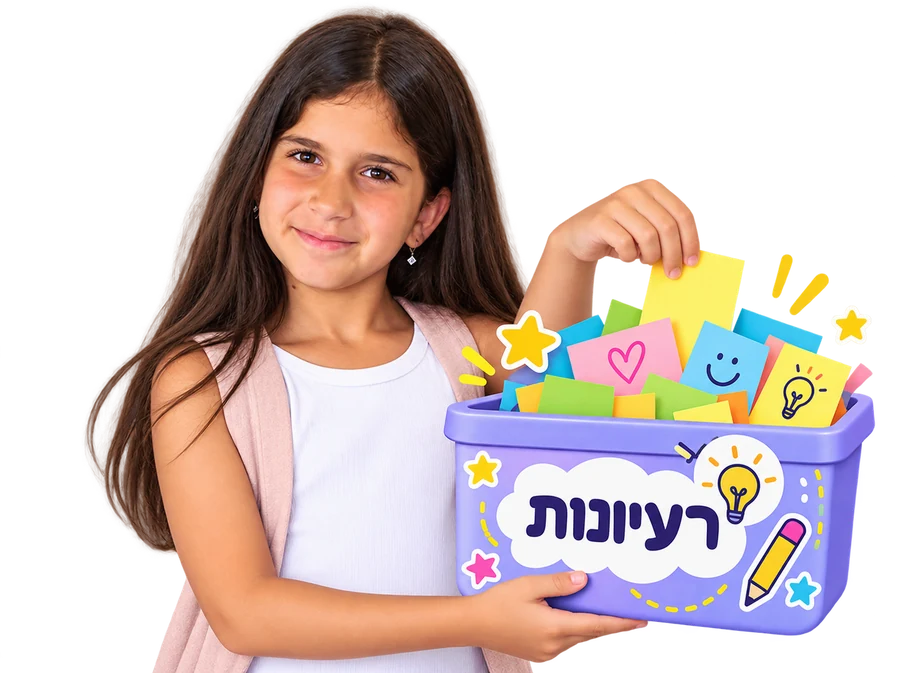
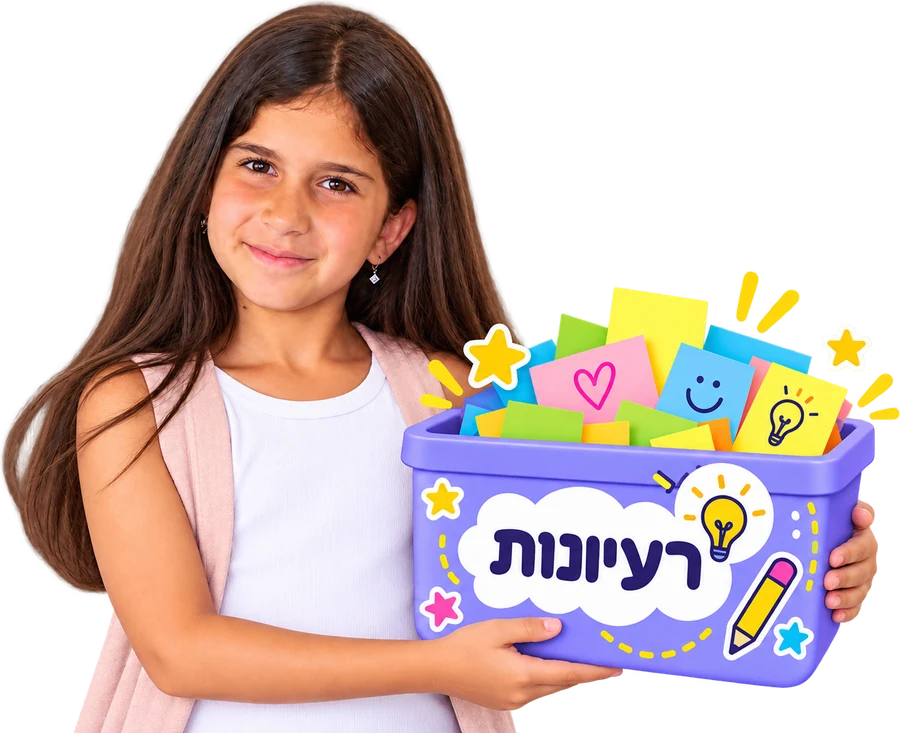
Ideas screen: replace the photo (single-hand version), retune sparkle/glow/box-mouth positions

diff --git a/css/style.css b/css/style.css
@@ -693,8 +693,8 @@ html:has(body.app) { overscroll-behavior: none; }
 
 .idea-pic {
   position: relative;
-  height: min(100cqh, calc(100cqw * 673 / 900));
-  aspect-ratio: 900 / 673;
+  height: min(100cqh, calc(100cqw * 733 / 900));
+  aspect-ratio: 900 / 733;
   container-type: size;
   transform-origin: 70% 100%;
   animation: pic-in .9s cubic-bezier(.2, 1.3, .4, 1) both;
@@ -715,7 +715,7 @@ html:has(body.app) { overscroll-behavior: none; }
 /* זוהר של הנורה על הקופסה */
 .idea-pic .glow {
   position: absolute;
-  left: 82%; top: 73%;
+  left: 80.5%; top: 70.3%;
   width: 24cqw; height: 24cqw;
   transform: translate(-50%, -50%);
   border-radius: 50%;
@@ -727,11 +727,11 @@ html:has(body.app) { overscroll-behavior: none; }
 
 /* נצנוצים סביב הקופסה */
 .idea-pic .sp { position: absolute; font-size: 7cqw; line-height: 1; transform: translate(-50%, -50%); animation: twinkle 2.2s ease-in-out infinite; pointer-events: none; }
-.sp.s1 { left: 59%; top: 47%; }
-.sp.s2 { left: 94%; top: 46%; animation-delay: -.7s; }
-.sp.s3 { left: 88%; top: 36%; animation-delay: -1.3s; }
-.sp.s4 { left: 53%; top: 80%; font-size: 6cqw; animation-delay: -.4s; }
-.sp.s5 { left: 90%; top: 88%; font-size: 6cqw; animation-delay: -1.7s; }
+.sp.s1 { left: 55%; top: 45%; }
+.sp.s2 { left: 94%; top: 45%; animation-delay: -.7s; }
+.sp.s3 { left: 84%; top: 36%; animation-delay: -1.3s; }
+.sp.s4 { left: 49%; top: 84%; font-size: 6cqw; animation-delay: -.4s; }
+.sp.s5 { left: 89%; top: 88%; font-size: 6cqw; animation-delay: -1.7s; }
 @keyframes twinkle { 0%, 100% { opacity: .25; transform: translate(-50%, -50%) scale(.6) rotate(0); } 50% { opacity: 1; transform: translate(-50%, -50%) scale(1.15) rotate(18deg); } }
 
 .idea-pic .burst { position: absolute; font-size: 7cqw; line-height: 1; pointer-events: none; z-index: 3; }

diff --git a/index.html b/index.html
@@ -122,7 +122,7 @@
         <i class="note n1"></i><i class="note n2"></i><i class="note n3"></i><i class="note n4"></i><i class="note n5"></i><i class="note n6"></i>
         <div id="idea-pic" class="idea-pic">
           <i class="glow"></i>
-          <img src="img/agam-ideas.webp" alt="אגם מחזיקה קופסת רעיונות" width="900" height="673">
+          <img src="img/agam-ideas.webp" alt="אגם מחזיקה קופסת רעיונות" width="900" height="733">
           <span class="sp s1">✨</span><span class="sp s2">⭐</span><span class="sp s3">✨</span><span class="sp s4">💡</span><span class="sp s5">⭐</span>
         </div>
       </div>

diff --git a/js/app.js b/js/app.js
@@ -115,7 +115,7 @@ function renderItems() {
 const reduceMotion = () => matchMedia('(prefers-reduced-motion: reduce)').matches;
 
 // נקודת הפתח של הקופסה בתוך התמונה (באחוזים מהתמונה)
-const BOX_MOUTH = { x: 0.73, y: 0.56 };
+const BOX_MOUTH = { x: 0.70, y: 0.55 };
 
 // פתק קטן עף מהשדה אל הקופסה שאגם מחזיקה, ואז התפרצות של כוכבים ורעיונות
 function flyNote(text, done) {

diff --git a/sw.js b/sw.js
@@ -1,5 +1,5 @@
 // להעלות את הגרסה בכל שינוי בנכסים, אחרת משתמשים יראו גרסה ישנה
-const CACHE = 'agam-v41';
+const CACHE = 'agam-v42';
 const ASSETS = [
   './',
   'index.html',
